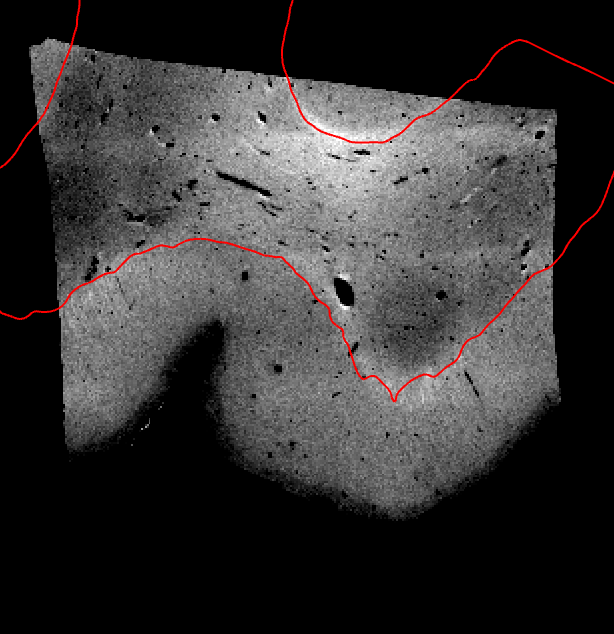
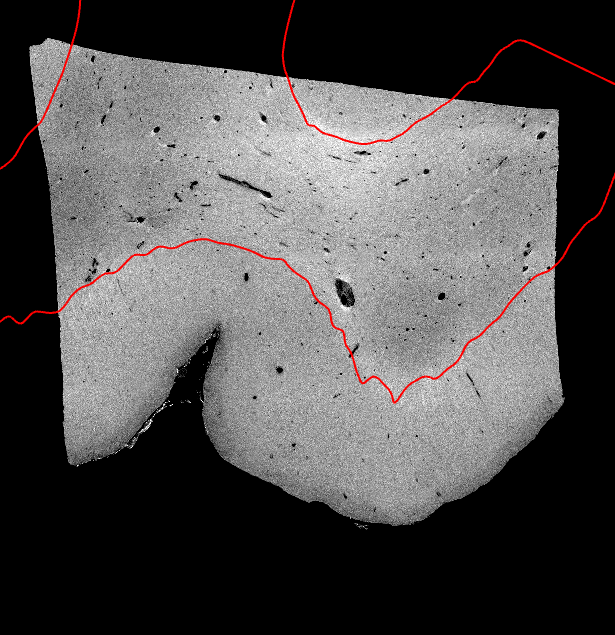
I46 en-face panels made by FreeSurfer: freeview places the MRI and the boundary surface through LTA files
The en-face panels now show the masked OCT itself at freeview's default window. Each transform is written as an LTA by
lta_convert, and freeview resamples the MRI crop and moves the white-matter boundary surface of the MRI-grid panels through it
(:reg=, nearest neighbour and line thickness at their defaults). A tool shows no line where its boundary does not cross the
plane. freeview_window reads a volume in slabs, so the 12 um OCT fits in memory; it gives the same windows as before.

diff --git a/bench/i46/figures.py b/bench/i46/figures.py
@@ -13,13 +13,14 @@ conditions/  for every condition of the test, its crop with the lower median dis
 strip/       every C3 crop of the 10 deg FLASH on the axial plane: the MRI with the line and the OCT through the reference and
              through the first --octreg folder of runs
 enface/      the crop of main/ seen in the OCT's own imaging planes, as the authors show the OCT: three OCT planes
-             (ENFACE_PLANES, one near the top of three sections) at 48 um (4 x 4 box average of the masked OCT), and on each
-             the MRI crop resampled through the reference and through octreg (<crop>_p<plane>_mri_<tag>.png), the OCT alone
-             (<crop>_p<plane>_oct.png) and the OCT with the line of main/ placed through the reference and through octreg
-             (<crop>_p<plane>_oct_line_<tag>.png): the white-matter label resampled to a 0.15 mm grid in the OCT frame
-             around the plane and made a surface the same way. On the middle plane also the line through each standard
-             tool of main/ (<crop>_p300_oct_line_<tool>.png), with no line where the tool places no white matter within
-             four label voxels of the plane (listed as no_line in figures.json)
+             (ENFACE_PLANES, one near the top of three sections) of the masked OCT every method received, at one screen
+             pixel per two OCT voxels and freeview's default window, alone (<crop>_p<plane>_oct.png), with the line of main/
+             placed through the reference and through octreg (<crop>_p<plane>_oct_line_<tag>.png), and the MRI crop placed
+             through each (<crop>_p<plane>_mri_<tag>.png), at freeview's default window and interpolation. FreeSurfer
+             places everything: lta_convert writes each transform as an LTA, and freeview resamples the MRI and moves the
+             boundary surface through it (:reg=). On the middle plane also the line through each standard tool of main/
+             (<crop>_p300_oct_line_<tool>.png): where its boundary does not cross the plane there is no line (listed as
+             no_line in figures.json)
 The planes pass through the MRI voxel centre nearest the centre of the OCT tissue placed by the reference. The OCT is
 box-averaged to the MRI voxel size and resampled by octreg's own resampler, and black means no OCT. The 2-pixel red line is
 the white-matter boundary of the authors' manual MRI layer labels, made a surface by FreeSurfer's mri_mc and mris_smooth -n 3
@@ -52,7 +53,6 @@ from octreg import geometry as G, io  # noqa: E402
 
 K = 2                                           # screen pixels per MRI voxel
 ENFACE_PLANES = (102, 300, 498)                 # OCT planes of enface/: the fourth plane of sections 3, 9 and 15
-ENFACE_POOL = 4                                 # in-plane box average of enface/ (48 um)
 INFO = {}                                       # figures.json: <folder>/<crop> -> what its panels are drawn with
 
 
@@ -123,72 +123,78 @@ def panels(crop, transforms, boundary, centre_world, out_dir, prefix, work, plan
     return sorted(expect)
 
 
+def tkr(img):
+    """FreeSurfer's tkregister vox2ras of a grid, the frame of the surfaces mri_mc writes from it."""
+    n, z = np.array(img.shape[:3], float), np.array(img.header.get_zooms()[:3], float)
+    return np.array([[-z[0], 0, 0, z[0] * n[0] / 2], [0, 0, z[2], -z[2] * n[2] / 2], [0, -z[1], 0, z[1] * n[1] / 2],
+                     [0, 0, 0, 1]])
+
+
+def crosses(surf, m, T, o, plane):
+    """Whether the boundary surface (made on the crop grid m), placed in the OCT world by T, crosses OCT plane `plane` inside
+    the OCT field of view."""
+    v, f = nib.freesurfer.read_geometry(str(surf))
+    v = (np.linalg.inv(o.affine) @ np.linalg.inv(T) @ m.affine @ np.linalg.inv(tkr(m)) @ np.c_[v, np.ones(len(v))].T)[:3].T
+    z, xy = v[f, 2], v[f, :2].mean(1)
+    inside = (xy >= -0.5).all(1) & (xy <= np.array(o.shape[:2]) - 0.5).all(1)
+    return bool((inside & (z.min(1) <= plane) & (z.max(1) >= plane)).any())
+
+
 def enface(crop, transforms, wm, out_dir, prefix, work, planes=ENFACE_PLANES, mri=True):
     """enface/ (module docstring): transforms {tag: 4 x 4 OCT world -> MRI world}, wm the white-matter label on the crop grid,
     mri whether to make the MRI panels too. -> the panel files"""
-    import nibabel as nib
     out_dir.mkdir(parents=True, exist_ok=True)
     work.mkdir(parents=True, exist_ok=True)
-    m = nib.load(str(crop))
-    marr = np.asarray(m.dataobj, np.float32)
-    o = nib.load(str(OCT))
-    gm, k = freeview_window(crop), ENFACE_POOL
-    s = float(min(m.header.get_zooms()[:3]))                       # the label grid: the MRI voxel size, axes of the OCT
-    D = o.affine[:3, :3] / np.linalg.norm(o.affine[:3, :3], axis=0)
-    cmd, expect, surfs = [], {}, []
+    m, o = nib.load(str(crop)), nib.load(str(OCT))
+    hdr = m.header.copy()
+    hdr.set_data_dtype(np.uint8)
+    nib.save(nib.Nifti1Image(np.asarray(wm, np.uint8), m.affine, hdr), str(work / "boundary.nii.gz"))
+    for tag, T in transforms.items():               # lta_convert reads NiftyReg's direction, here MRI world -> OCT world
+        np.savetxt(work / f"{tag}_niftyreg.txt", np.linalg.inv(np.asarray(T, float)), fmt="%.10f")
+    go, gm = freeview_window(OCT), freeview_window(crop)      # what freeview computes itself, for figures.json
+    ss = lambda name: f"-ss {host_path(out_dir / name)} 1 0"
+    surf = host_path(work / "boundary.surf")
+    reg = lambda tag: host_path(work / f"{tag}_mri2oct.lta")
+    line_cmd, mri_cmd, expect = [f"-v {host_path(OCT)}"], [f"-v {host_path(OCT)}:visible=0"], {}
     for plane in planes:
-        a = np.asarray(o.dataobj[:, :, plane], np.float32)
-        nx, ny = a.shape[0] // k, a.shape[1] // k
-        a = a[:nx * k, :ny * k].reshape(nx, k, ny, k).mean((1, 3))[:, :, None]
-        A = o.affine @ np.array([[k, 0, 0, (k - 1) / 2], [0, k, 0, (k - 1) / 2], [0, 0, 1, plane], [0, 0, 0, 1]], float)
-        f_oct = work / f"oct_p{plane}.nii.gz"
-        io.save_nifti(a, A, f_oct)
-        go = freeview_window(f_oct)
-        INFO[f"{out_dir.name}/{prefix}_p{plane}"] = {"oct_window": [round(x, 4) for x in go], "mri_window": [round(x, 4) for x in gm],
-                                                   "plane_mm": [round(nx * k * float(o.header.get_zooms()[0]), 2),
-                                                                round(ny * k * float(o.header.get_zooms()[1]), 2)]}
-        ref = nib.Nifti1Image(a, A)
-        lines, wh = view(ref, "axial", (A @ np.r_[(nx - 1) / 2, (ny - 1) / 2, 0, 1])[:3])
-        lines = [f"-viewsize {wh[0] * 2} {wh[1] * 2}" if line.startswith("-viewsize") else line for line in lines]
-        ss = lambda name: f"-ss {host_path(out_dir / name)} 1 0"
-        size = (wh[0] * 2, wh[1] * 2)
-        cmd += ["-v {}:grayscale={!r},{!r}".format(host_path(f_oct), *go), *lines, ss(f"{prefix}_p{plane}_oct.png")]
+        lines, wh = view(o, "axial", (o.affine @ np.r_[0, 0, plane, 1])[:3])
+        size = (wh[0] // 2, wh[1] // 2)                                  # one screen pixel per two OCT voxels
+        lines = [f"-viewsize {size[0]} {size[1]}" if line.startswith("-viewsize") else line for line in lines]
+        INFO[f"{out_dir.name}/{prefix}_p{plane}"] = {
+            "oct_window": [round(x, 4) for x in go], "mri_window": [round(x, 4) for x in gm],
+            "plane_mm": [round(o.shape[k] * float(o.header.get_zooms()[k]), 2) for k in (0, 1)]}
+        line_cmd += [*lines, ss(f"{prefix}_p{plane}_oct.png")]
         expect[out_dir / f"{prefix}_p{plane}_oct.png"] = size
-        n = (int(np.ceil((nx * k * float(o.header.get_zooms()[0]) + 4) / s)),    # 2 mm beyond the plane on each side
-             int(np.ceil((ny * k * float(o.header.get_zooms()[1]) + 4) / s)), 9)  # and 4 voxels above and below it
-        A3 = np.eye(4)
-        A3[:3, :3] = D * s
-        A3[:3, 3] = (A @ np.r_[(nx - 1) / 2, (ny - 1) / 2, 0, 1])[:3] - A3[:3, :3] @ ((np.array(n) - 1) / 2)
-        for tag, T in transforms.items():
-            f_wm = work / f"wm_{tag}_p{plane}.nii.gz"
-            f_mri = work / f"mri_{tag}_p{plane}.nii.gz"
-            lab = G.resample_to(wm.astype(np.uint8), m.affine, n, A3, np.asarray(T, float), order=0).astype(np.uint8)
-            io.save_nifti(lab, A3, f_wm)
-            io.save_nifti(G.resample_to(marr, m.affine, a.shape, A, np.asarray(T, float)), A, f_mri)
-            if lab.any():
-                surfs.append(f_wm.name.removesuffix(".nii.gz"))
-                cmd += [f"-f {host_path(work / (surfs[-1] + '.surf'))}:edgecolor=red:edgethickness=2",
-                        ss(f"{prefix}_p{plane}_oct_line_{tag}.png"), "-unload surface"]
-            else:
-                INFO[f"{out_dir.name}/{prefix}_p{plane}"].setdefault("no_line", []).append(tag)
-                cmd.append(ss(f"{prefix}_p{plane}_oct_line_{tag}.png"))
+        for tag in transforms:
+            line_cmd += [f"-f {surf}:reg={reg(tag)}:edgecolor=red", ss(f"{prefix}_p{plane}_oct_line_{tag}.png"),
+                         "-unload surface"]
             expect[out_dir / f"{prefix}_p{plane}_oct_line_{tag}.png"] = size
-        cmd.append("-unload volume")
         for tag in transforms if mri else ():
-            cmd += ["-v {}:grayscale={!r},{!r}".format(host_path(work / f"mri_{tag}_p{plane}.nii.gz"), *gm), *lines,
-                    ss(f"{prefix}_p{plane}_mri_{tag}.png"), "-unload volume"]
+            mri_cmd += [f"-v {host_path(crop)}:reg={reg(tag)}", *lines, ss(f"{prefix}_p{plane}_mri_{tag}.png"),
+                        "-unload volume"]
             expect[out_dir / f"{prefix}_p{plane}_mri_{tag}.png"] = size
-    (work / "enface.cmd").write_text("\n".join(cmd + ["-quit"]) + "\n", encoding="utf-8", newline="\n")
+    (work / "lines.cmd").write_text("\n".join(line_cmd + ["-quit"]) + "\n", encoding="utf-8", newline="\n")
+    (work / "mri.cmd").write_text("\n".join(mri_cmd + ["-quit"]) + "\n", encoding="utf-8", newline="\n")
+    O, C = host_path(OCT), host_path(crop)
     sh = ["#!/bin/bash", "export FREESURFER_HOME=${FREESURFER_HOME:-/usr/local/freesurfer/8.2.0}",
           "export FS_LICENSE=${FS_LICENSE:-$HOME/freesurfer/license.txt}",
           "source $FREESURFER_HOME/SetUpFreeSurfer.sh >/dev/null 2>&1", "set -e", f"cd {host_path(work)}",
-          *(f"mri_mc {f}.nii.gz 1 {f}_raw.surf > mri_mc_{f}.log 2>&1 && "
-            f"mris_smooth -n 3 -nw {f}_raw.surf {f}.surf > mris_smooth_{f}.log 2>&1" for f in surfs),
-          "freeview -cmd enface.cmd > freeview.log 2>&1"]
+          "mri_mc boundary.nii.gz 1 boundary_raw.surf > mri_mc.log 2>&1",
+          "mris_smooth -n 3 -nw boundary_raw.surf boundary.surf > mris_smooth.log 2>&1",
+          *(f"lta_convert --inniftyreg {tag}_niftyreg.txt --src {O} --trg {C} --outlta {tag}_oct2mri.lta "
+            f"> lta_{tag}.log 2>&1 && lta_convert --inlta {tag}_oct2mri.lta --invert --outlta {tag}_mri2oct.lta "
+            f">> lta_{tag}.log 2>&1"
+            for tag in transforms),
+          "freeview -cmd lines.cmd > freeview_lines.log 2>&1",
+          *(["freeview -cmd mri.cmd > freeview_mri.log 2>&1"] if mri else [])]
     (work / "enface.sh").write_text("\n".join(sh) + "\n", encoding="utf-8", newline="\n")
     for f in expect:
         f.unlink(missing_ok=True)
     subprocess.run((["wsl"] if WSL else []) + ["bash", host_path(work / "enface.sh")], check=True)
+    for plane in planes:
+        no = [tag for tag, T in transforms.items() if not crosses(work / "boundary.surf", m, np.asarray(T, float), o, plane)]
+        if no:
+            INFO[f"{out_dir.name}/{prefix}_p{plane}"]["no_line"] = no
     from PIL import Image
     bad = [f"{f}: {Image.open(f).size if f.is_file() else 'missing'}, expected {wh}" for f, wh in expect.items()
            if not f.is_file() or Image.open(f).size != wh]

diff --git a/bench/figures.py b/bench/figures.py
@@ -81,13 +81,17 @@ def freeview_window(path):
     a 1000-bin histogram, from the minimum to the maximum of the volume, of the voxels that are not 0, each split linearly
     between its two nearest bins, and the window from the bin nearest the 5th percentile to the bin nearest the 99th plus a
     fifth of the difference. -> (lo, hi)."""
-    a = np.asarray(nib.load(str(path)).dataobj, np.float32).ravel()
-    vmin, vmax = float(a.min()), float(a.max())
+    img = nib.load(str(path))
+    slabs = lambda: (np.asarray(img.dataobj[:, :, i:i + 32], np.float32).ravel() for i in range(0, img.shape[2], 32))
+    vmin = min(float(a.min()) for a in slabs())
+    vmax = max(float(a.max()) for a in slabs())
     step = (vmax - vmin) / 999
-    d = (a[np.abs(a) >= 1e-7].astype(np.float64) - vmin) / step
-    lo_bin, hi_bin = np.floor(d), np.ceil(d)
-    counts = (np.bincount(np.minimum(lo_bin, 999).astype(int), hi_bin - d, 1000)
-              + np.bincount(np.minimum(hi_bin, 999).astype(int), d - lo_bin, 1000))
+    counts = np.zeros(1000)
+    for a in slabs():
+        d = (a[np.abs(a) >= 1e-7].astype(np.float64) - vmin) / step
+        lo_bin, hi_bin = np.floor(d), np.ceil(d)
+        counts += (np.bincount(np.minimum(lo_bin, 999).astype(int), hi_bin - d, 1000)
+                   + np.bincount(np.minimum(hi_bin, 999).astype(int), d - lo_bin, 1000))
     cdf = np.cumsum(counts) / counts.sum()
     bins = vmin + step * np.arange(1000)
     p5, p99 = (float(bins[np.argmin(np.abs(cdf - p))]) for p in (0.05, 0.99))

diff --git a/README.md b/README.md
@@ -299,11 +299,13 @@ interior match and at most three boundary points on any crop, so it refused its 
 | 498 | <img src="docs/figures/i46/enface/flip1_C3_k0_p498_oct.png" width="150" alt="OCT, plane 498"> | <img src="docs/figures/i46/enface/flip1_C3_k0_p498_oct_line_reference.png" width="150" alt="OCT with the line through R, plane 498"> | <img src="docs/figures/i46/enface/flip1_C3_k0_p498_oct_line_octreg.png" width="150" alt="OCT with the line through octreg, plane 498"> | <img src="docs/figures/i46/enface/flip1_C3_k0_p498_mri_reference.png" width="150" alt="MRI through R, plane 498"> | <img src="docs/figures/i46/enface/flip1_C3_k0_p498_mri_octreg.png" width="150" alt="MRI through octreg, plane 498"> |
 
 The crop with the median distance under octreg (10° FLASH, 3 mm margin, k = 0) in three planes of the OCT itself, the way
-Costantini et al. show their OCT: OCT planes 102, 300 and 498, each three planes below the top of its section, 14.7 × 15.2 mm
-at 48 µm (a 4 × 4 average of the 12 µm OCT). From left: the OCT, the OCT with the white-matter boundary of the authors' manual
-MRI labels placed through R and through octreg (red), and the MRI crop resampled through R and through octreg. Outside the OCT
-tissue the line continues through the MRI, and where the white matter reaches the edge of the crop it runs along that edge.
-The grey levels are linear, at freeview's default window of each OCT plane and of the crop
+Costantini et al. show their OCT: planes 102, 300 and 498 of the masked OCT every method received, each three planes below the
+top of its section, 14.76 × 15.25 mm at one screen pixel per two 12 µm OCT voxels. From left: the OCT, the OCT with the
+white-matter boundary of the authors' manual MRI labels placed through R and through octreg (red), and the MRI crop placed
+through R and through octreg. FreeSurfer places both: each transform is written as an LTA file by lta_convert, and freeview
+moves the boundary surface and resamples the MRI through it (nearest neighbour, its default). Outside the OCT tissue the line
+continues through the MRI, and where the white matter reaches the edge of the crop it runs along that edge. The grey levels
+are linear, at freeview's default window of the OCT and of the crop
 ([docs/figures/i46/figures.json](docs/figures/i46/figures.json)).
 
 | R | octreg | NiftyReg reg_aladin | greedy | ANTs |
@@ -315,8 +317,8 @@ The grey levels are linear, at freeview's default window of each OCT plane and o
 | <img src="docs/figures/i46/enface/flip1_C3_k0_p300_oct_line_flirt_search.png" width="120" alt="OCT plane 300 with the line through FLIRT, its search over ±180°"> | <img src="docs/figures/i46/enface/flip1_C3_k0_p300_oct_line_ants_antsai.png" width="120" alt="OCT plane 300 with the line through ANTs, antsAI start"> | <img src="docs/figures/i46/enface/flip1_C3_k0_p300_oct_line_greedy_search.png" width="120" alt="OCT plane 300 with the line through greedy, its search"> |  |  |
 
 OCT plane 300 of the same crop with the white-matter boundary placed through R, through octreg and through each standard tool
-at its declared setting and with its own search. FLIRT, SynthMorph and the searches of FLIRT and greedy place no white matter
-within 0.6 mm of this plane, so their panels show no line. elastix ended without a transform on this crop.
+at its declared setting and with its own search. For FLIRT, SynthMorph and the searches of FLIRT and greedy the boundary does
+not cross this plane, so their panels show no line. elastix ended without a transform on this crop.
 [bench/i46](bench/i46/README.md) shows the crop on the MRI grid in three planes, the median crop of every condition, and all
 ten crops of this condition.
 

diff --git a/bench/i46/README.md b/bench/i46/README.md
@@ -243,16 +243,17 @@ The same crop in three planes of the OCT itself (`enface/`):
 | 300 | <img src="../../docs/figures/i46/enface/flip1_C3_k0_p300_oct.png" width="140" alt="OCT, plane 300"> | <img src="../../docs/figures/i46/enface/flip1_C3_k0_p300_oct_line_reference.png" width="140" alt="OCT with the line through R, plane 300"> | <img src="../../docs/figures/i46/enface/flip1_C3_k0_p300_oct_line_octreg.png" width="140" alt="OCT with the line through octreg, plane 300"> | <img src="../../docs/figures/i46/enface/flip1_C3_k0_p300_mri_reference.png" width="140" alt="MRI through R, plane 300"> | <img src="../../docs/figures/i46/enface/flip1_C3_k0_p300_mri_octreg.png" width="140" alt="MRI through octreg, plane 300"> |
 | 498 | <img src="../../docs/figures/i46/enface/flip1_C3_k0_p498_oct.png" width="140" alt="OCT, plane 498"> | <img src="../../docs/figures/i46/enface/flip1_C3_k0_p498_oct_line_reference.png" width="140" alt="OCT with the line through R, plane 498"> | <img src="../../docs/figures/i46/enface/flip1_C3_k0_p498_oct_line_octreg.png" width="140" alt="OCT with the line through octreg, plane 498"> | <img src="../../docs/figures/i46/enface/flip1_C3_k0_p498_mri_reference.png" width="140" alt="MRI through R, plane 498"> | <img src="../../docs/figures/i46/enface/flip1_C3_k0_p498_mri_octreg.png" width="140" alt="MRI through octreg, plane 498"> |
 
-The same crop in three planes of the OCT itself, the way Costantini et al. show their OCT: OCT planes 102, 300 and 498, each
-three planes below the top of its section, 14.7 × 15.2 mm at 48 µm (a 4 × 4 average of the 12 µm OCT). From left: the OCT, the
-OCT with the white-matter boundary placed through R and through octreg, and the MRI crop resampled through R and through octreg.
-The line is the boundary above, resampled to a 0.15 mm grid in the OCT frame and cut by the plane. Outside the OCT tissue it
-continues through the MRI, and where the white matter reaches the edge of the crop it runs along that edge. The grey levels are
-linear, at freeview's default window of each OCT plane and of the crop.
+The same crop in three planes of the OCT itself, the way Costantini et al. show their OCT: planes 102, 300 and 498 of the
+masked OCT every method received, each three planes below the top of its section, 14.76 × 15.25 mm at one screen pixel per two
+12 µm OCT voxels. From left: the OCT, the OCT with the white-matter boundary placed through R and through octreg, and the MRI
+crop placed through R and through octreg. The line is the boundary surface above. FreeSurfer places it and the MRI: each
+transform is written as an LTA file by lta_convert, and freeview moves the surface and resamples the MRI through it (nearest
+neighbour, its default). Outside the OCT tissue the line continues through the MRI, and where the white matter reaches the
+edge of the crop it runs along that edge. The grey levels are linear, at freeview's default window of the OCT and of the crop.
 
 OCT plane 300 with the line through R, through octreg and through each standard tool at its declared setting and with its own
-search. FLIRT, SynthMorph and the searches of FLIRT and greedy place no white matter within 0.6 mm of this plane, so their
-panels show no line (`no_line` in figures.json). elastix ended without a transform on this crop.
+search. For FLIRT, SynthMorph and the searches of FLIRT and greedy the boundary does not cross this plane, so their panels
+show no line (`no_line` in figures.json). elastix ended without a transform on this crop.
 
 | R | octreg | NiftyReg reg_aladin | greedy | ANTs |
 |---|---|---|---|---|
